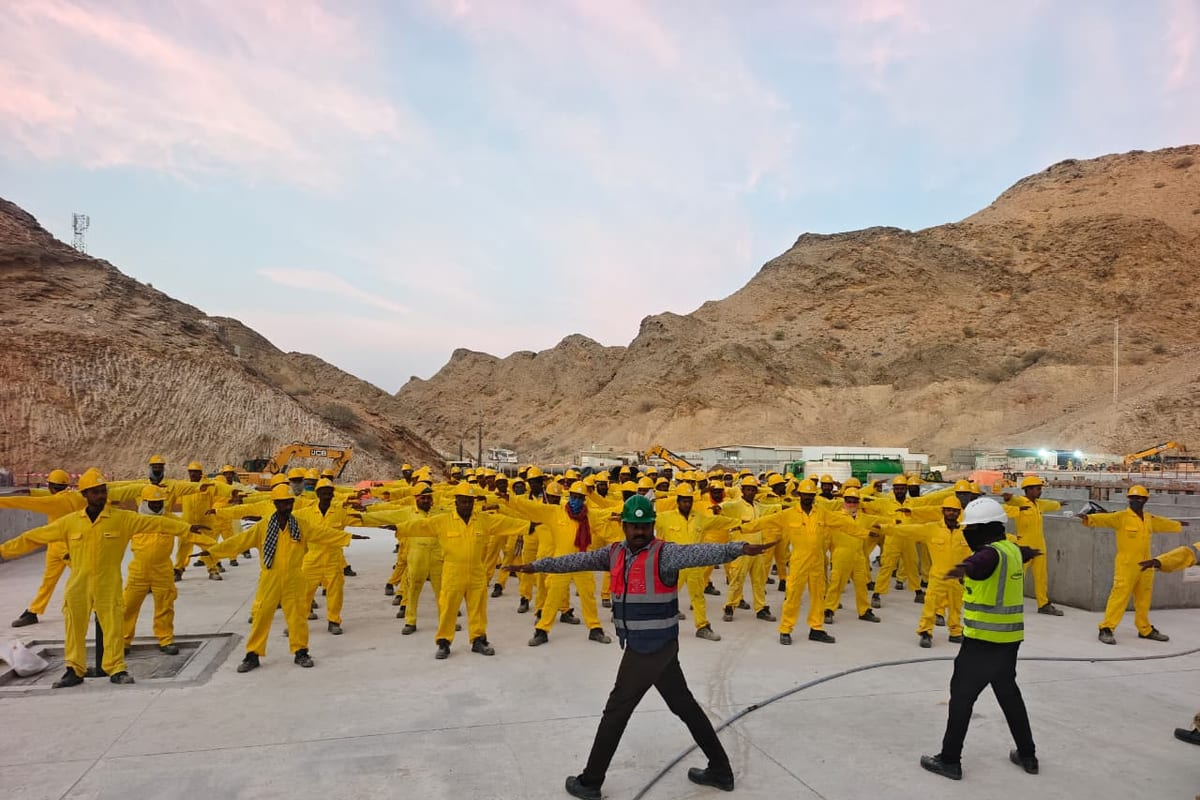
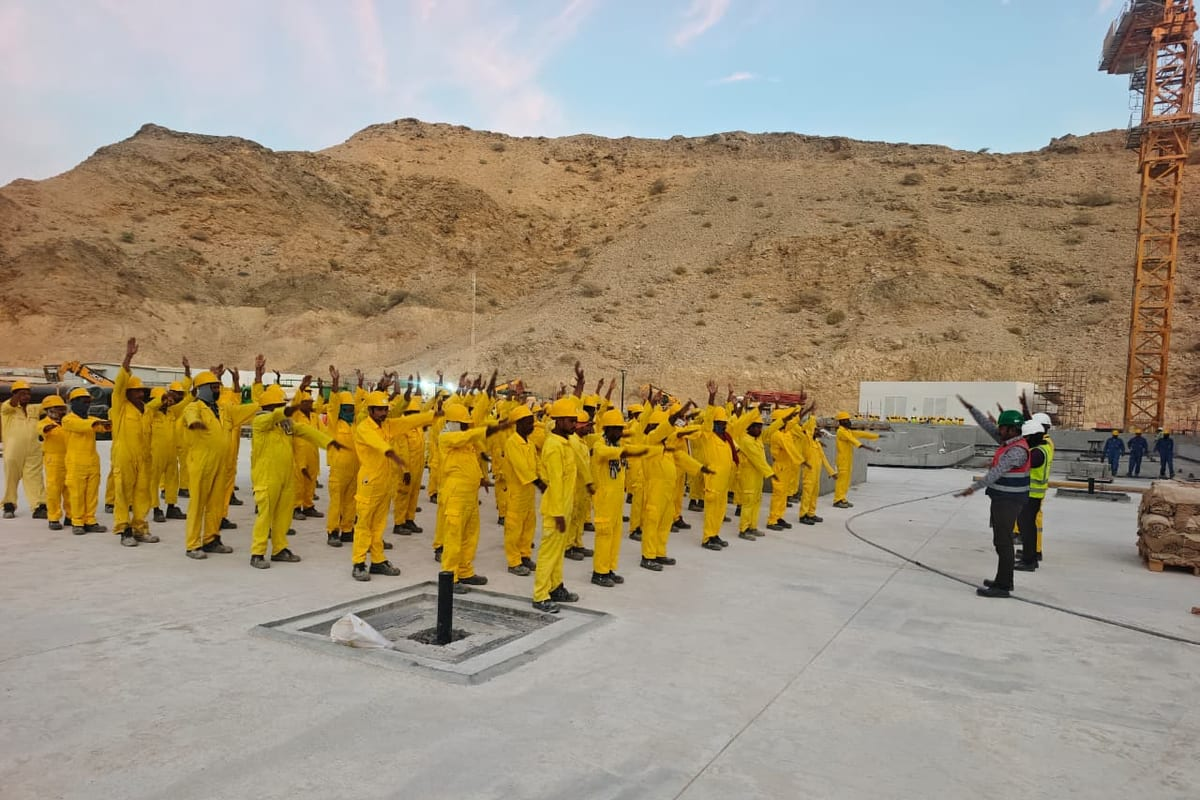
Give the HSE page a hero worth the name, at a fainter scrim
The PPE-wall mannequin read dim and static as an opener. The page now opens
on the morning warm-up against the Hajar mountains — the whole workforce, on
a real site, in daylight, which is the page's own story. The 1280px phone
photo is upscaled 1.5x with a band crop that keeps the mountain line and
every row of the crew, lifted slightly in brightness and colour.

PageHero grows a "faint" scrim tier for it, and the tier is not free to use
anywhere: it holds AA contrast for the lead paragraph only over a background
whose text-zone luma is ~150 or brighter — measured on this hero (mean 151;
34% ink leaves cream at ~4.9:1 before the text-shadow adds its local
contrast). A darker photograph still needs "light" or stronger.

The wellness strip's mountain frame swaps to the other mountain shot so the
hero photograph does not appear twice on one page.

diff --git a/site/components/PageHero.tsx b/site/components/PageHero.tsx
@@ -19,21 +19,24 @@ import Reveal from "./Reveal";
  */
 /**
  * How hard the image is held back. "light" is for pages whose photograph is the
- * point and is bright enough to survive being seen — the HSE training centre,
- * where the equipment wall on the left IS the evidence the page offers.
- *
- * Anything lighter than these would drop the lead paragraph below a 3:1
- * contrast ratio against cream, which the text-shadow can rescue for a headline
- * but not for a paragraph.
+ * point and is bright enough to survive being seen. "faint" is the floor, and
+ * it is not free to use anywhere: it holds a 4.5:1 AA ratio for the lead
+ * paragraph only over a background whose text-zone luma is ~150 or brighter —
+ * measured, not guessed, when the HSE warm-up hero was cut (mean 151 across
+ * the heading zone; 34% ink over that leaves cream at ~4.9:1 before the
+ * text-shadow adds its local contrast). A darker photograph needs "light" or
+ * stronger, or the paragraph sinks below AA.
  */
 const SCRIM = {
   default: "bg-gradient-to-r from-ink/68 via-ink/38 to-ink/[0.03]",
   light: "bg-gradient-to-r from-ink/48 via-ink/24 to-transparent",
+  faint: "bg-gradient-to-r from-ink/34 via-ink/16 to-transparent",
 } as const;
 
 const VEIL = {
   default: "bg-gradient-to-b from-ink/40 via-transparent to-ink",
   light: "bg-gradient-to-b from-ink/28 via-transparent to-ink",
+  faint: "bg-gradient-to-b from-ink/16 via-transparent to-ink",
 } as const;
 
 export default function PageHero({

diff --git a/site/app/hse/page.tsx b/site/app/hse/page.tsx
@@ -26,9 +26,9 @@ export default function HsePage() {
       <Header />
 
       <PageHero
-        img={asset("/images/hse/hse-ppe-wall.jpg")}
-        alt="The personal protective equipment wall at Al Adrak's training centre"
-        scrim="light"
+        img={asset("/images/hse/hse-hero-warmup.jpg")}
+        alt="The Al Adrak workforce at the seven-minute morning warm-up on site"
+        scrim="faint"
         kicker={hse.kicker}
         title={hse.title}
       >
